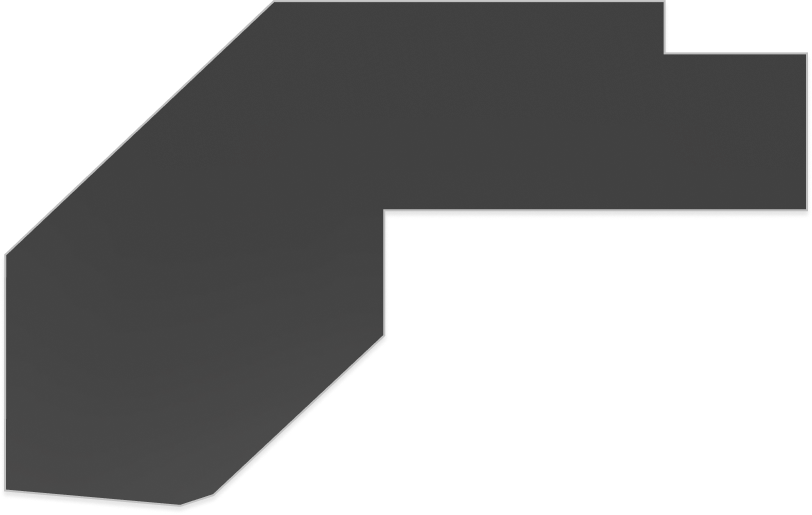
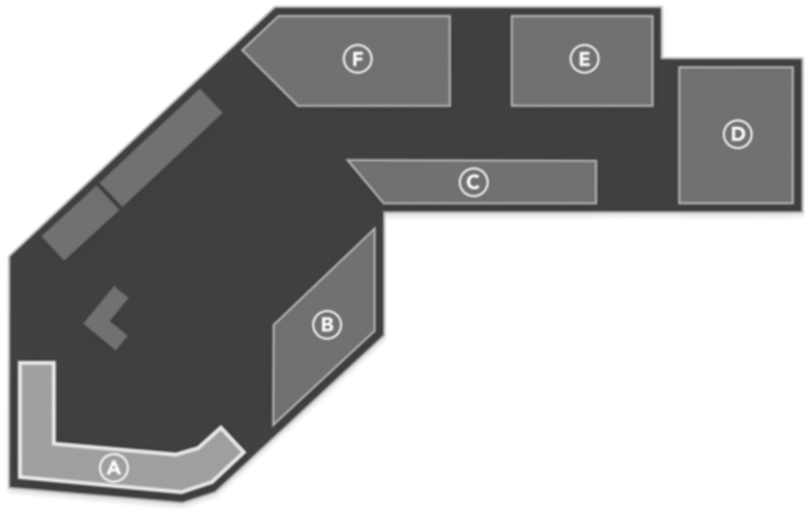
Change CT position

diff --git a/src/styles/Projects/PC/Projects.module.css b/src/styles/Projects/PC/Projects.module.css
@@ -51,9 +51,9 @@
 
 	position: absolute;
 	box-sizing: border-box;
-	left: -0.75%;
-	right: -30.75%;
-	top: 69.46%;
+	left: 0%;
+	right: 0%;
+	top: 68.40%;
 	bottom: 1.57%;
 	
 
@@ -65,9 +65,9 @@
 	box-sizing: border-box;
 
 	position: absolute;
-	left: 32.75%;
+	left: 32.55%;
 	right: 49.75%;
-	top: 41.75%;
+	top: 41.35%;
 	bottom: 15.75%;
 
 
@@ -92,9 +92,9 @@
 	box-sizing: border-box;
 
 	
-	left: 85.25%;
+	left: 84.45%;
 	right: 5.37%;
-	top: 9.25%;
+	top: 9.99%;
 	bottom: 60.24%;
 	
 
@@ -106,7 +106,7 @@
 	position: absolute;
 	left: 63.25%;
 	right: 22.7%;
-	top: -1.25%;
+	top: -0.25%;
 	bottom: 79.97%;
 
 
@@ -119,39 +119,12 @@
 
 	left: 28.25%;
 	right: 34.3%;
-	top: -1.25%;
+	top: -0.25%;
 	bottom: 79.96%;
 	
 	
 }
-.CT01{
-	position: absolute;
-	left: 9.26%;
-	right: 85.01%;
-	top: 53.75%;
-	bottom: 30.67%;
-	
-}
-.CT02{
-	
-	position: absolute;
-	left: 11.3%;
-	right: 71.25%;
-	top: 11.75%;
-	bottom: 57.85%;
 
-
-
-}
-.CT03{
-	position: absolute;
-	left: 3.78%;
-	right: 6.16%;
-	top: 31.25%;
-	bottom: 48.84%;
-	width: 30px;
-
-}
 
 .descriptionContainer {
 	display: flex;

diff --git a/src/views/page/Projects/PC/Projects.js b/src/views/page/Projects/PC/Projects.js
@@ -115,15 +115,6 @@ function Projects() {
 					<img className={styles.CTE} alt src="/img/CTE.png" onClick={() => handleImageClick('CTE')} />
 					<img className={styles.CTF} alt src="/img/CTF.png" onClick={() => handleImageClick('CTF')} />
 				</div>
-				<div className={styles.CT01}>
-					<img alt src="/img/CT01.png"/>
-				</div>
-				<div className={styles.CT02}>
-					<img alt src="/img/CT02.png"/>
-				</div>
-				<div className={styles.CT03}>
-					<img alt src="/img/CT03.png"/>
-				</div>
 			</div>
 
 			{isDescriptionVisible && (
